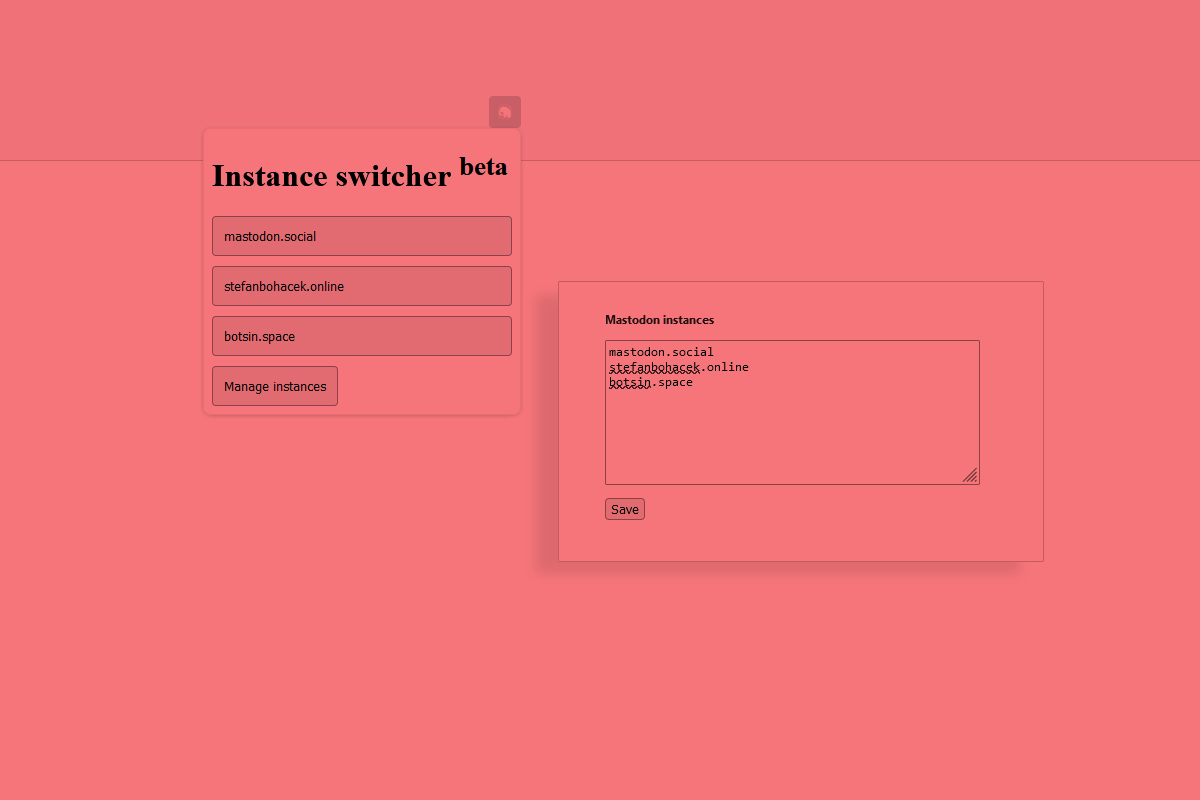
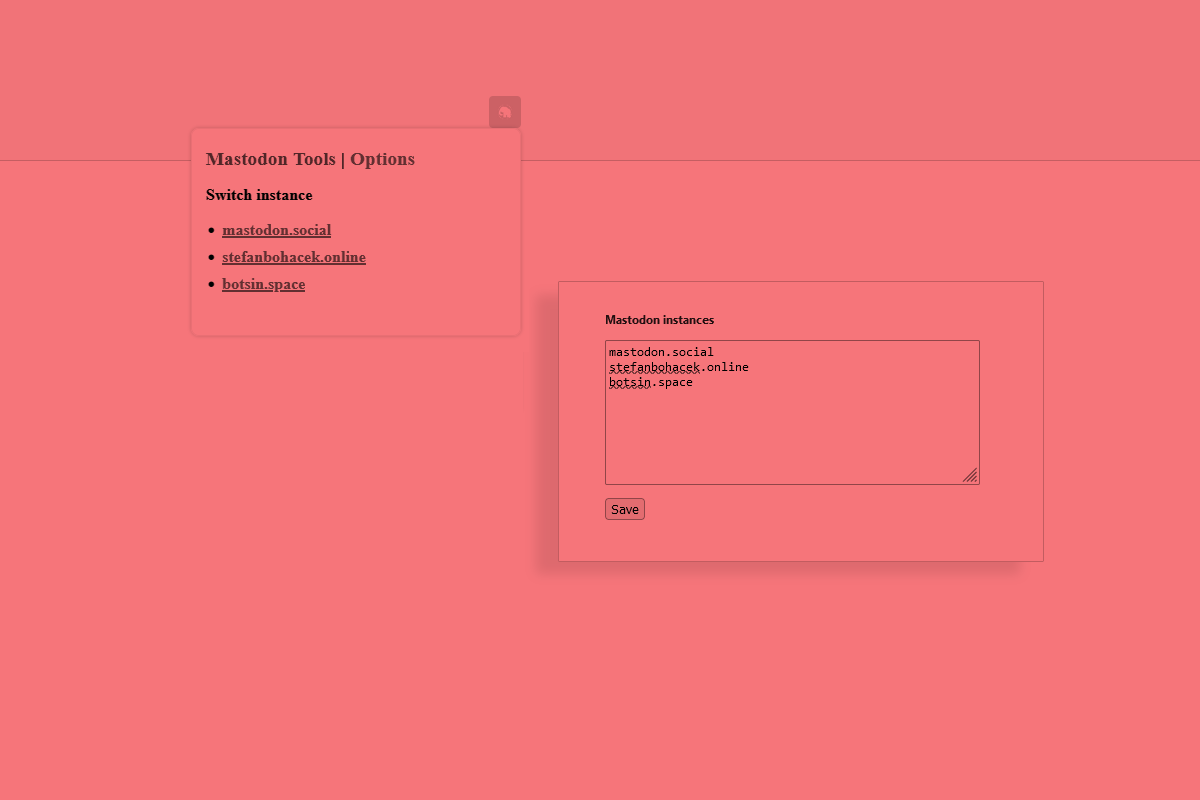
Added profile hovercards and tag browser link.

diff --git a/browser-extension/scripts/modules/Hovercard.js b/browser-extension/scripts/modules/Hovercard.js
@@ -1,0 +1,75 @@
+import loadAccountInfo from './loadAccountInfo.js';
+
+class Hovercard {
+    removeHovercards(target){
+        [...document.getElementsByClassName('sbmt-account-info')].forEach(el => {
+            el.parentNode.removeChild(el);
+        });
+    }
+    
+    addHovercard(target){
+        if (target.classList.contains('sbmt-has-card')){ return };
+        // target.classList.add('sbmt-pe-none');
+        const account = target.getAttribute('href').substring(1);
+    
+        loadAccountInfo(account).then(results => {
+            if (results && (results.display_name || results.username)){
+                const card = document.createElement('div');
+                card.classList.add('sbmt-card', 'sbmt-hovercard', 'sbmt-account-info');
+            
+                // results.account
+                // results.display_name
+                // results.avatar_static
+                // results.note
+                // results.fields
+                // results.followers_count
+                // results.following_count
+                // results.header_static
+                // results.bot
+                // results.locked
+                // results.url
+           
+                const followersHTML = Number.isInteger(results.followers_count) ? `<span class="sbmt-followers-following">${results.followers_count.toLocaleString()} followers | ${results.following_count.toLocaleString()} following<span>` : '';
+    
+                let labelsHTML = '';
+    
+                if (results.bot || results.locked){
+                    labelsHTML = '<span class="sbmt-account-labels">';
+                    
+                    if (results.bot){
+                        labelsHTML += '🤖';
+                    }
+    
+                    if (results.locked){
+                        labelsHTML += '🔒';
+                    }
+    
+                    labelsHTML += '</span>';
+                }
+    
+                card.innerHTML = `
+                <div class="sbmt-row">
+                    <div class="sbmt-profile-img-wrapper sbmt-column">
+                        <img width="60" heigh="60" class="sbmt-profile-img" src="${results.avatar_static}" />
+                    </div>
+                    <div class="sbmt-account-details sbmt-column">
+                        ${labelsHTML}
+                        <span class="sbmt-account-name">${results.display_name || results.username}</span>
+                        <span class="sbmt-account-username">${results.account}</span>
+                        <span class="sbmt-account-note">${results.note}</span>
+                        ${followersHTML}
+                    </div>
+                </div>
+                `;
+                target.classList.add('sbmt-has-card');
+                target.prepend(card);  
+            }
+
+    
+        });
+      
+    }
+
+};
+
+export default Hovercard;

diff --git a/browser-extension/scripts/modules/loadAccountInfo.js b/browser-extension/scripts/modules/loadAccountInfo.js
@@ -1,0 +1,74 @@
+import Cookies from './cookies.js';
+
+const cookies = new Cookies();
+let savedAccounts = [];
+let isFetchingData = false;
+
+try{
+  savedAccounts = JSON.parse(window.atob(decodeURIComponent(escape(cookies.getCookie('sbmtSavedAccounts')))));
+} catch (err) {
+  console.log('loadAccountInfo:error', err, cookies.getCookie('sbmtSavedAccounts'));
+}
+
+console.log('savedAccounts', savedAccounts);
+
+const loadAccountInfo = async (account) => {
+
+  if (savedAccounts.map(a => a.account).includes(account)){
+
+    return savedAccounts.filter(a => a.account === account)[0];
+  } else if (!isFetchingData) {
+    const accountArray = account.split('@');
+    let domain;
+
+    if (accountArray.length === 2){
+      domain = window.location.host;
+    } else {
+      domain = accountArray[2];
+    }
+
+    const apiURL = `https://${domain}/api/v1/accounts/lookup?acct=${account}`
+
+    let results = {};
+  
+    try {
+      isFetchingData = true;
+      const resp = await fetch(apiURL);
+      const respJSON = await resp.json();
+
+      if (respJSON && (respJSON.display_name || respJSON.username)){
+        results = {
+          account,
+          display_name: respJSON.display_name,
+          username: respJSON.username,
+          avatar_static: respJSON.avatar_static,
+          note: respJSON.note,
+          fields: respJSON.fields,
+          followers_count: respJSON.followers_count,
+          following_count: respJSON.following_count,
+          header_static: respJSON.header_static,
+          bot: respJSON.bot,
+          locked: respJSON.locked,
+          url: respJSON.url
+        };
+  
+        savedAccounts.push(results);
+
+        if (savedAccounts.length > 11){
+          savedAccounts = savedAccounts.slice(Math.max(savedAccounts.length - 11, 0))
+        }
+
+        cookies.setCookie('sbmtSavedAccounts', window.btoa(window.unescape(encodeURIComponent(JSON.stringify(savedAccounts)))), 15);
+      }
+
+      isFetchingData = false;
+      return results;
+    } catch (error) {
+      console.log('loadAccountInfo:error', error);
+      isFetchingData = false;
+      return results;
+    }
+  }
+}
+
+export default loadAccountInfo;

diff --git a/browser-extension/styles/styles.css b/browser-extension/styles/styles.css
@@ -1,0 +1,81 @@
+.sbmt-hovercard.sbmt-account-info{
+    max-width: 420px;
+    border-radius: 8px;
+    overflow: hidden;
+    background-color: #fff;
+    position: absolute;
+    top: 1rem;
+    left: 1rem;
+    z-index: 999999;
+    /* pointer-events: none; */
+}
+
+.sbmt-hovercard{
+    display: none;
+    box-shadow: 4px 4px 16px rgba(0, 0, 0, 0.2);
+}
+
+.status__display-name:hover .sbmt-hovercard{
+    display: flex;
+}
+
+.sbmt-profile-img-wrapper{
+    padding: 8px 0 8px 8px;
+}
+
+.sbmt-profile-img{
+    width: 60px;
+    height: 60px;
+    display: block;
+    border-radius: 50%;
+}
+
+.sbmt-account-details{
+    flex: 5 !important;
+    padding: 8px 8px 8px 4px;
+}
+
+.sbmt-account-name{
+    font-weight: bold;
+}
+
+.sbmt-account-username{
+    font-size: 0.9rem;
+}
+
+.sbmt-account-note{
+    margin-top: 4px;
+    font-weight: normal;
+}
+
+.sbmt-row{
+    display: flex;
+    flex-direction: row;
+    flex-wrap: wrap;
+    width: 100%;
+}
+
+.sbmt-column{
+    display: flex;
+    flex-direction: column;
+    flex-basis: 100%;
+    flex: 1;
+}
+
+.sbmt-followers-following{
+    font-size: 0.8rem;
+}
+
+.sbmt-account-labels{
+    position: absolute;
+    top: 0;
+    right: 0;
+    padding: 2px;
+    background: silver;
+    border-radius: 20px;
+    margin: 2px;    
+}
+
+.sbmt-pe-none{
+    pointer-events: none;
+}

diff --git a/browser-extension/scripts/popup.js b/browser-extension/scripts/popup.js
@@ -26,19 +26,16 @@ const handleLinks = () => {
 
 const addFediverseExplorerLink = async (currentURL) => {
   const tagBrowserLink = document.getElementById('tag-browser-link');
-  const tag = currentURL.split('/tags/');
-
-  console.log({
-    currentURL,
-    tag
-  });
+  let tag = currentURL.split('/tags/');
 
   if (tag && tag.length > 1){
+    tag = tag[1].toLowerCase();
+
     const a = document.createElement('a');
-    const link = document.createTextNode(`Explore the #${tag[1]} tag`);
+    const link = document.createTextNode(`Explore the #${tag} tag`);
     a.classList.add('fw-bold');
     a.appendChild(link); 
-    a.href = `https://fediverse-explorer.stefanbohacek.dev/?tag=${tag[1]}`; 
+    a.href = `https://fediverse-explorer.stefanbohacek.dev/?tag=${tag}`; 
     tagBrowserLink.appendChild(a);
     tagBrowserLink.classList.remove('d-none');
   }

diff --git a/browser-extension/scripts/modules/cookies.js b/browser-extension/scripts/modules/cookies.js
@@ -1,0 +1,27 @@
+class Cookies {
+
+  setCookie(name, value, expiration){
+    const d = new Date();
+    d.setTime(d.getTime() + (expiration*60*1000));
+    let expires = "expires="+ d.toUTCString();
+    document.cookie = name + "=" + value + ";" + expiration + ";path=/";
+  }
+
+  getCookie(name){
+    name = name + "=";
+    let decodedCookie = decodeURIComponent(document.cookie);
+    let ca = decodedCookie.split(";");
+    for(let i = 0; i <ca.length; i++){
+      let c = ca[i];
+      while (c.charAt(0) == " "){
+        c = c.substring(1);
+      }
+      if (c.indexOf(name) == 0){
+        return c.substring(name.length, c.length);
+      }
+    }
+    return "";
+  }
+};
+
+export default Cookies;

diff --git a/browser-extension/scripts/main.js b/browser-extension/scripts/main.js
@@ -1,0 +1,12 @@
+import ready from './modules/ready.js';
+import addLiveEventListeners from './modules/addLiveEventListeners.js';
+import Hovercard from './modules/Hovercard.js';
+
+const hovercard = new Hovercard();
+
+ready(() => {
+    addLiveEventListeners(".status__display-name", "mouseenter", hovercard.addHovercard);
+    // addLiveEventListeners(".status__display-name", "mouseleave", hovercard.removeHovercards);
+    // addLiveEventListeners(".status__display-name", "mouseout", hovercard.removeHovercards);
+    // addLiveEventListeners(".sbmt-account-info", "mouseleave", hovercard.removeHovercards);
+});

diff --git a/browser-extension/scripts/modules/waitForElement.js b/browser-extension/scripts/modules/waitForElement.js
@@ -1,0 +1,19 @@
+const waitForElement = (selector) => {
+  return new Promise(resolve => {
+    if (document.querySelector(selector)) {
+      return resolve(document.querySelector(selector));
+    }
+    const observer = new MutationObserver(mutations => {
+      if (document.querySelector(selector)) {
+        resolve(document.querySelector(selector));
+        observer.disconnect();
+      }
+    });
+    observer.observe(document.body, {
+      childList: true,
+      subtree: true
+    });
+  });
+}
+
+export default waitForElement;

diff --git a/browser-extension/scripts/modules/addLiveEventListeners.js b/browser-extension/scripts/modules/addLiveEventListeners.js
@@ -1,0 +1,16 @@
+const addLiveEventListeners = (selector, event, handler) => {
+  const rootElement = document.querySelector('body');
+  rootElement.addEventListener(event, function (evt) {
+    let targetElement = evt.target;
+
+    while (targetElement != null) {
+      if (targetElement.matches(selector)) {
+          handler(targetElement);
+          return;
+      }
+      targetElement = targetElement.parentElement;
+    }
+  }, true);
+}
+
+export default addLiveEventListeners;

diff --git a/browser-extension/scripts/modules/ready.js b/browser-extension/scripts/modules/ready.js
@@ -1,0 +1,9 @@
+const ready = (fn) => {
+  if (document.attachEvent ? document.readyState === 'complete' : document.readyState !== 'loading'){
+    fn();
+  } else {
+    document.addEventListener('DOMContentLoaded', fn);
+  }
+}
+
+export default ready;

diff --git a/browser-extension/popup.html b/browser-extension/popup.html
@@ -8,7 +8,6 @@
 	<p class="section-title">
 		<strong>Switch instance</strong>
 	</p>
-
 	<ul id="mastodon-instances" class="pl-2 fw-bold"></ul>
 	<div id="tag-browser-link" class="d-none mt-1 pt-1"></div>
 	<script src="scripts/popup.js"></script>

diff --git a/browser-extension/scripts/content.js b/browser-extension/scripts/content.js
@@ -1,0 +1,4 @@
+(async () => {
+    const src = chrome.runtime.getURL('scripts/main.js');
+    const contentMain = await import(src);
+})();

diff --git a/README.md b/README.md
@@ -7,9 +7,7 @@ Here's how you can install an extension in development mode:
 - [Firefox](https://developer.mozilla.org/en-US/docs/Mozilla/Add-ons/WebExtensions/Your_first_WebExtension#installing)
 - [Chrome](https://developer.chrome.com/docs/extensions/mv3/getstarted/development-basics/#load-unpacked)
 
-Currently the only feature available for testing is the Mastodon instance switcher.
-
-## Available tools
+## Features
 
 ### Mastodon instance switcher
 
@@ -21,3 +19,16 @@ Clicking the extension icon lets you open a currently viewed post on another ins
 Each instance domain (omit the http or https protocol) goes on a separate line.
 
 ![Screenshot of the settings page with a text field for adding your Mastodon instances.](browser-extension/assets/screenshot-settings.png)
+
+
+### Tag browser
+
+When viewing a tag page on Mastodon, a link will be added to the plugin pop-up window that lets you browse the current tag across a larger portion of the fediverse using the [Fediverse Explorer](https://fediverse-explorer.stefanbohacek.dev/), another tool I've developed.
+
+![Screenshot of the settings page with a text field for adding your Mastodon instances.](browser-extension/assets/tag-browser.png)
+
+### Profile hovercards
+
+This feature is on [Mastodon's roadmap](https://joinmastodon.org/roadmap), under "Exploring" as "On-hover information cards for users", but you don't have to wait!
+
+![A screenshot of two posts with the hovercard visible as an overlay.](browser-extension/assets/hovercard.png)
